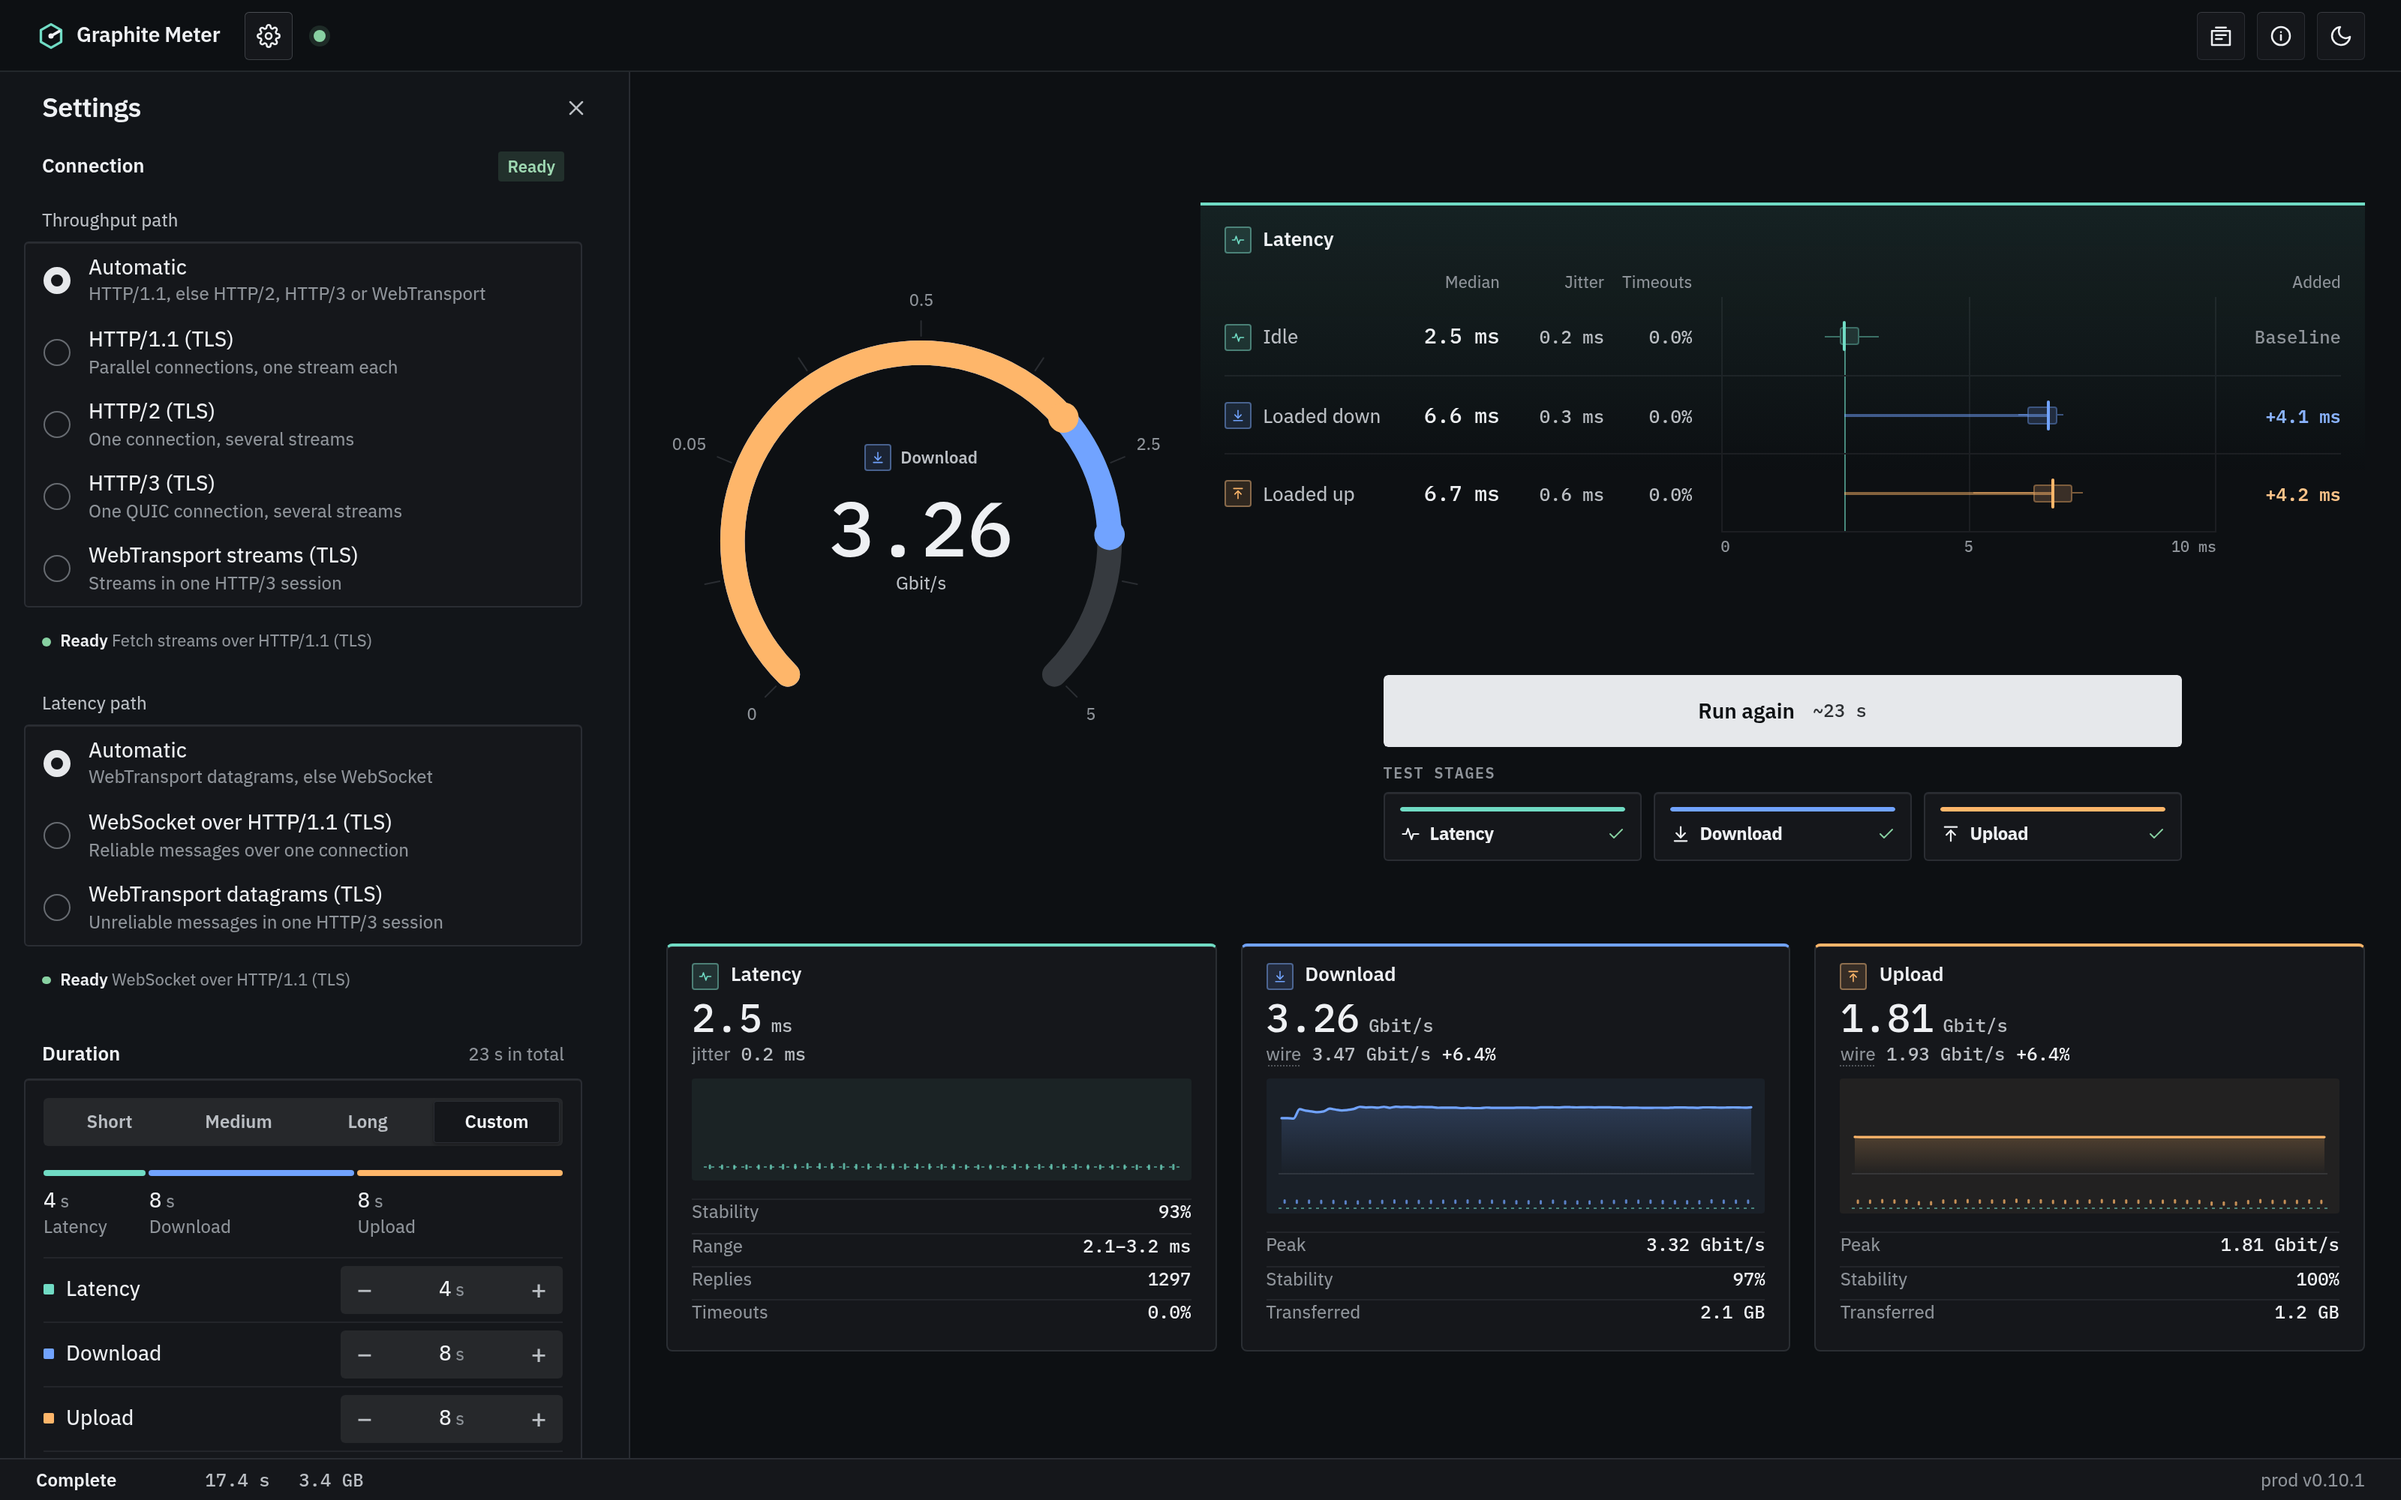
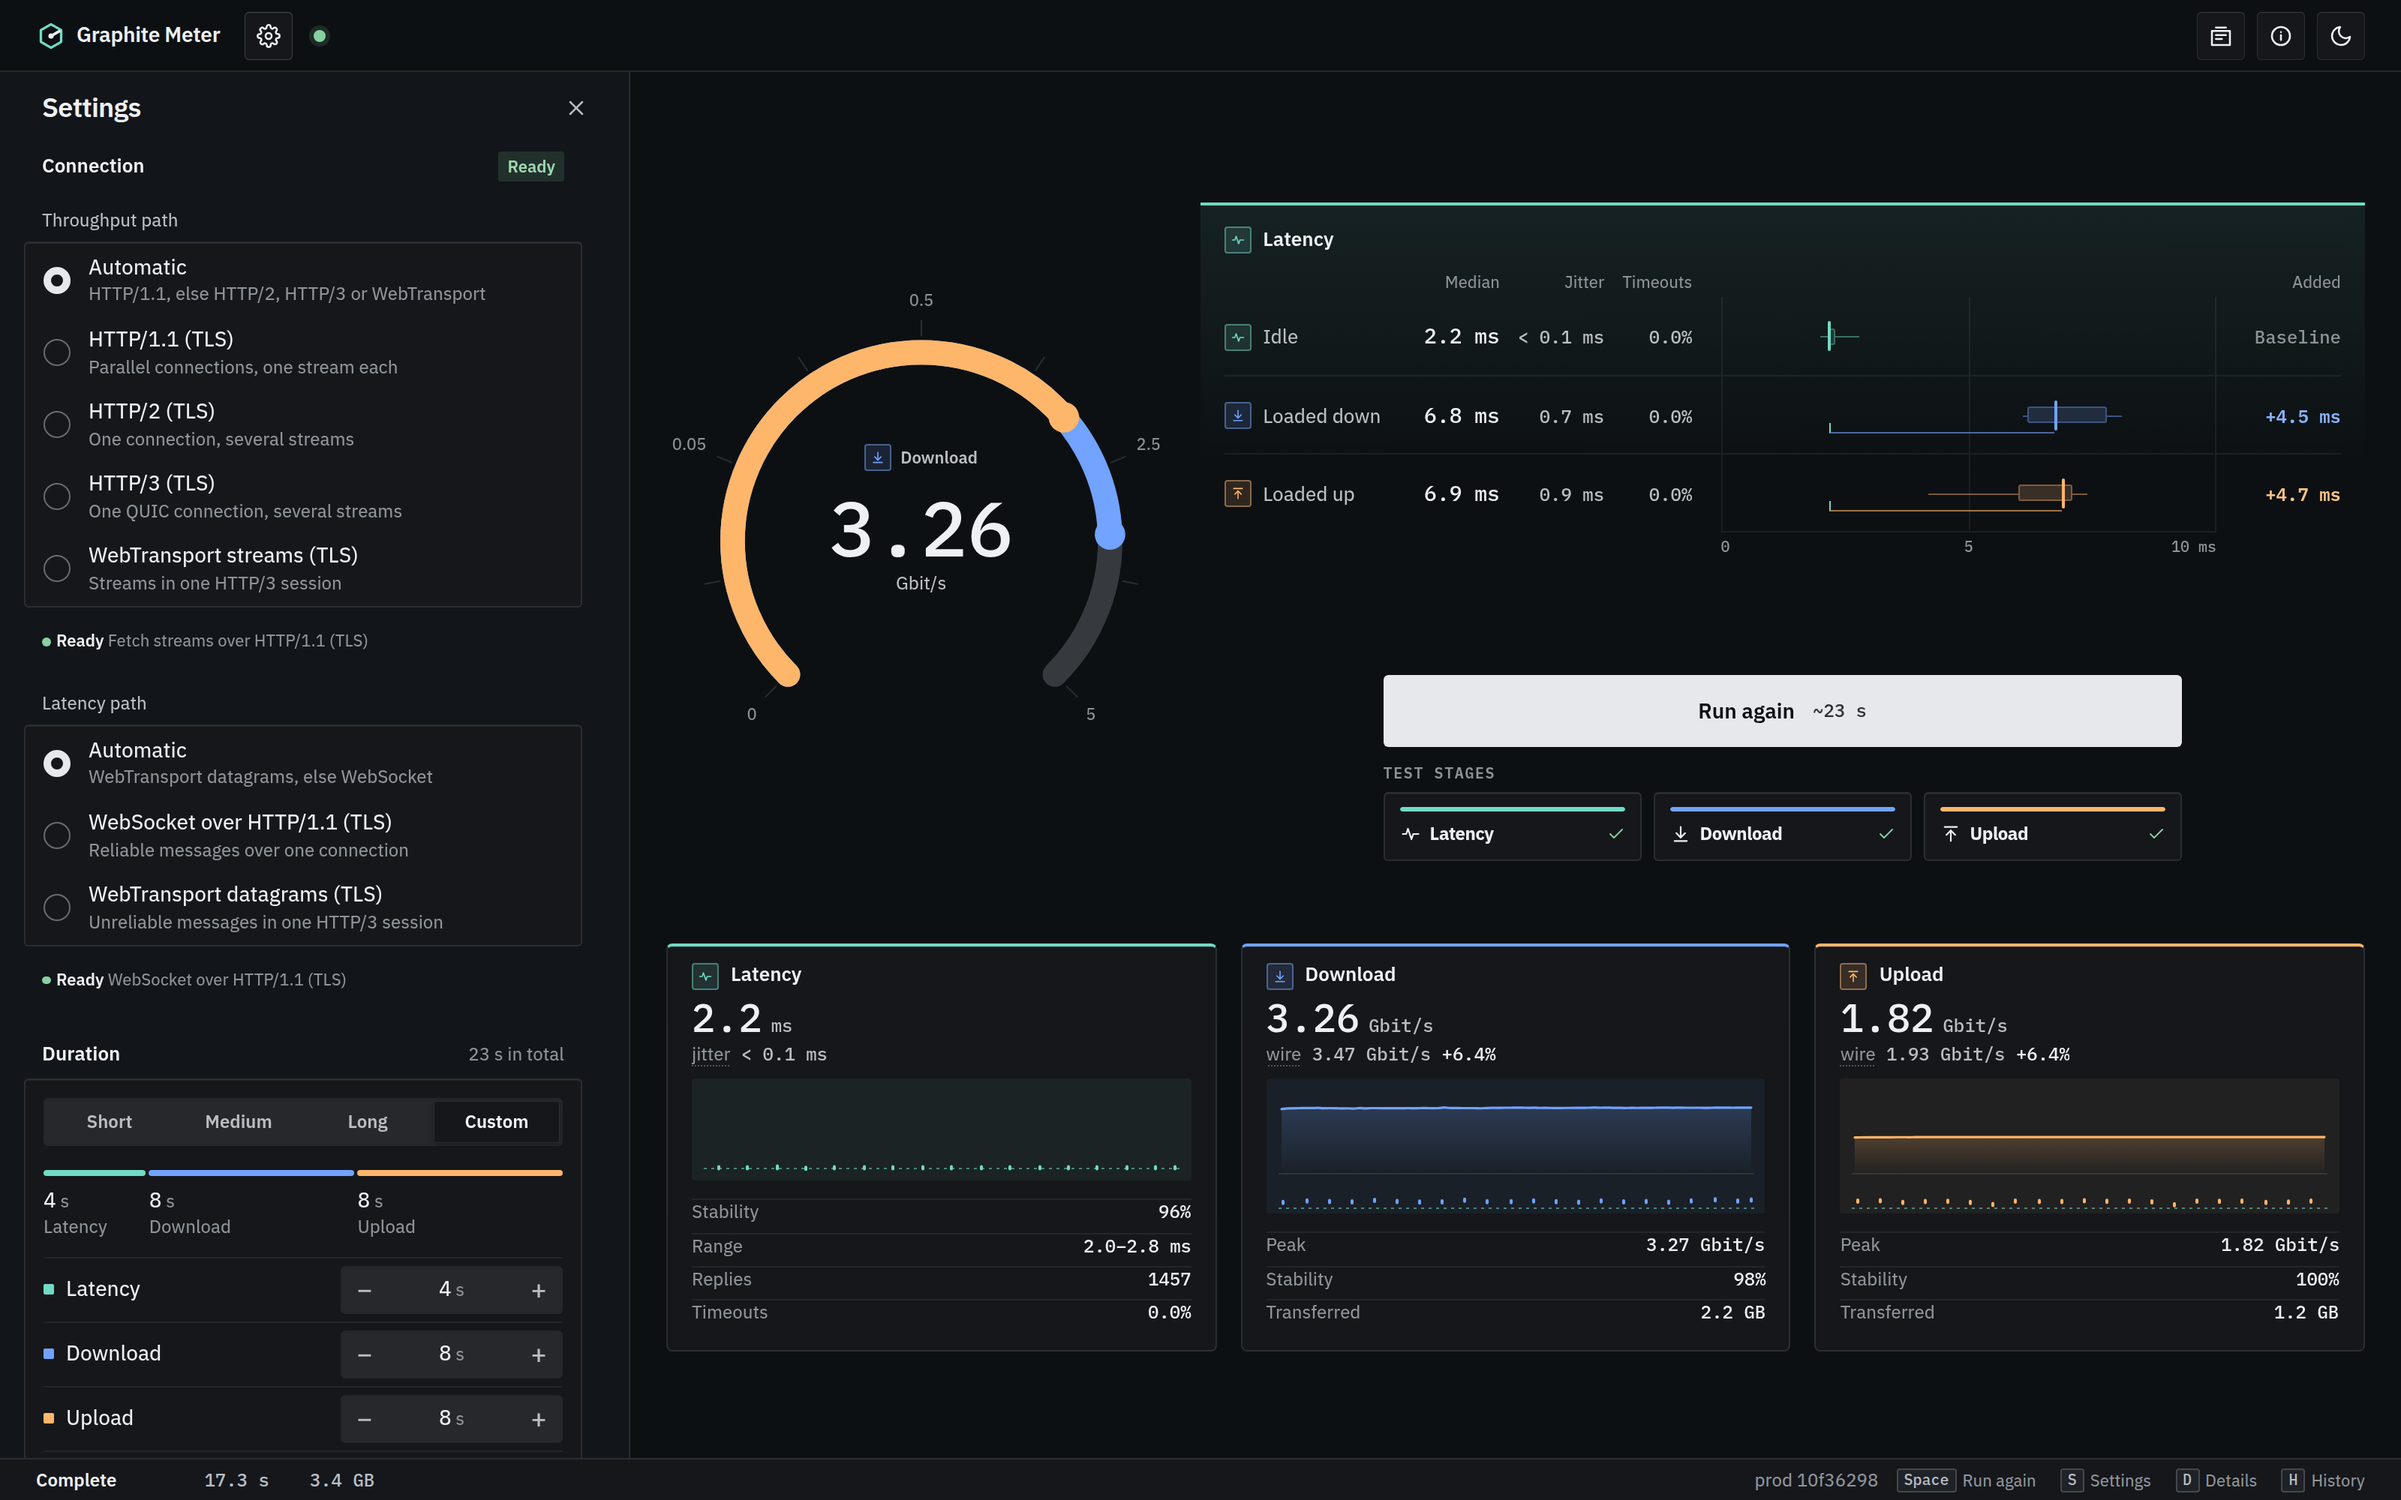
Retake the gallery with the browser client
Every browser capture in the README and the gallery showed the removed
client. A hosted runner retook all thirteen over the documented shaped
paths with the production build of 10f36298 and the pinned Chrome 154:
the completed views, Settings, Details, both docks, three servers, the
partial run, History, the phone and its saved result, and both sign-in
pages, each in the state its predecessor showed.

The README's hero now frames the Wi-Fi 7 laptop's upload stage: on the
runner the 10 GbE workstation path was limited by its CPU (about 7 down
and 4 up), not by the link. The captions quote what the new captures
show: the laptop at 3.26 down, 1.82 up and 2.2 ms idle, the phone at
1.58 down, 0.82 up and 3.3 ms. The workspace capture is a Wi-Fi 7 run,
as it always was, not a 10 GbE one. The terminal capture is unchanged.

diff --git a/docs/SCREENSHOTS.md b/docs/SCREENSHOTS.md
@@ -2,10 +2,10 @@
 
 [Project overview](../README.md) · [Quick deployment](DEPLOYMENT.md#fast-local-deployment) · [What the numbers mean](MEASUREMENTS.md)
 
-Every capture is a real run of version 0.10.1. The servers are local, each behind a link shaper that models one
-client's path into a 10 GbE home network: a laptop on Wi-Fi 7 for the completed views, a workstation wired at 10 GbE
-in the README's hero, and a phone on Wi-Fi 6E. The figures are what the meter measured over those paths, not a
-benchmark of a network.
+Every browser capture is a real run of a production build after version 0.11.1. The servers are local, each behind
+a link shaper that models one client's path into a 10 GbE home network: a laptop on Wi-Fi 7 for the desktop views and
+the README's hero, and a phone on Wi-Fi 6E. The figures are what the meter measured over those paths, not a benchmark
+of a network.
 
 ## The completed test
 
@@ -13,7 +13,7 @@ The dial carries the run's headline and every stage's result on one ring; the la
 latency side by side with what each load added; one card per stage, under its key, keeps the stage's graph with
 the latency its load caused underneath.
 
-<img src="assets/desktop.png" alt="Completed test from a laptop on Wi-Fi 7: 3.26 Gbit/s down, 1.81 Gbit/s up, 2.5 ms idle latency, the latency lanes and one card per stage" width="1080">
+<img src="assets/desktop.png" alt="Completed test from a laptop on Wi-Fi 7: 3.26 Gbit/s down, 1.82 Gbit/s up, 2.2 ms idle latency, the latency lanes and one card per stage" width="1080">
 
 <img src="assets/light.png" alt="The same completed test in the light theme" width="1080">
 
@@ -54,7 +54,7 @@ the latency lanes under them; nothing overlaps whatever the stages, servers or s
 the dial in view while the rest scrolls beside it, and a sheet follows the finger and leaves on a flick.
 
 <p align="center">
-<img src="assets/mobile.png" alt="Phone view of a completed test over Wi-Fi 6E: 1.55 Gbit/s down, 0.82 Gbit/s up, 3.6 ms idle latency, the dial over the stages and their cards" width="320">
+<img src="assets/mobile.png" alt="Phone view of a completed test over Wi-Fi 6E: 1.58 Gbit/s down, 0.82 Gbit/s up, 3.3 ms idle latency, the dial over the stages and their cards" width="320">
 <img src="assets/mobile-history.png" alt="Phone view of a saved result" width="320">
 </p>
 
@@ -75,16 +75,16 @@ over its stage chips, and a card per stage.
 
 <img src="assets/tui.png" alt="Native terminal client after a complete latency, download and upload run" width="1080">
 
-Browser captures: production build of 0.10.1 over HTTPS, Chrome 154, 1600 × 1000 (workspace 1920 × 1080) at 2×
-density, and 430 × 839 at 3× (the screen of a 430 × 932 phone between its status bar and home indicator); stages
-latency 4 s, download and upload 8 s, bidirectional 6 s, a 1 s warmup; the dial's maximum automatic.
-Paths: the laptop's carries 3.4 Gbit/s down and 1.9 Gbit/s up with 1 ms of one-way delay; the workstation's
-9.4 Gbit/s each way with no added delay, of which the capture host's CPU reached about 9; the phone's 1.65 Gbit/s
+Browser captures: production build of revision 10f36298, which the status bars name, over HTTPS, headless Chrome 154
+on a GitHub-hosted Ubuntu 24.04 runner, 1600 × 1000 (workspace 1920 × 1080) at 2× density, and 430 × 839 at 3× (the
+screen of a 430 × 932 phone between its status bar and home indicator); stages latency 4 s, download and upload 8 s,
+bidirectional 6 s, a 1 s warmup; the dial's maximum automatic.
+Paths: the laptop's carries 3.4 Gbit/s down and 1.9 Gbit/s up with 1 ms of one-way delay; the phone's 1.65 Gbit/s
 down and 0.86 Gbit/s up with 1.5 ms. Each queues up to 4 ms of data, so latency under load comes from real
 queueing. The three servers of the multi-server run each have their own path (1.3, 1.1 and 1.0 Gbit/s down with 1,
 1.5 and 2 ms), together about the laptop's, and the partial run stops the Mini PC's server during download. The
-terminal capture is a source build of the Go TUI with its default stages at 120 × 40 in VTE at 2×, over TLS on
-loopback, which runs far faster than any of those paths. Each capture is shown as a plain screen; the README's hero
-sets two in a laptop and a phone outline. The sign-in pages come from a local server with password sign-in, at the
-phone's size.
+terminal capture is a source build of the Go TUI from 0.11.0's development with its default stages at 120 × 40 in
+VTE at 2×, over TLS on loopback, which runs far faster than any of those paths. Each capture is shown as a plain screen;
+the README's hero sets the laptop's upload stage and the phone's result in a laptop and a phone outline. The sign-in
+pages come from a local server with password sign-in, at the phone's size.
 To measure your own network, follow [deployment and configuration](DEPLOYMENT.md).

diff --git a/README.md b/README.md
@@ -11,7 +11,7 @@ One Go server, a responsive web interface, and a native terminal client.
 
 [Quick start](#quick-start) · [Measurements](#what-you-can-measure) · [Browser](#browser-client) · [Terminal](#native-terminal-client) · [Documentation](#documentation)
 
-<img src="docs/assets/hero.png" alt="A laptop screen with a wired 10 GbE test mid-run, uploading at 8.97 Gbit/s with 0.2 ms idle latency, and a phone beside it with its finished Wi-Fi 6E result" width="1080">
+<img src="docs/assets/hero.png" alt="A laptop screen with a Wi-Fi 7 test mid-run, uploading at 1.81 Gbit/s with 2.2 ms idle latency, and a phone beside it with its finished Wi-Fi 6E result" width="1080">
 
 <sub>Real runs over shaped home-network paths · <a href="docs/SCREENSHOTS.md">screenshot gallery</a></sub>
 
@@ -78,7 +78,7 @@ result replays on the dial when the run ends.
 - **Local history:** optionally save up to 2,000 results on your device, grouped by day. Inspect past runs
   while the live test continues, then return to it from the toolbar. History is not a server-side archive.
 
-<img src="docs/assets/workspace.png" alt="Settings and Details docked on both sides of a completed 10 GbE test on a wide desktop" width="1080">
+<img src="docs/assets/workspace.png" alt="Settings and Details docked on both sides of a completed Wi-Fi 7 test on a wide desktop" width="1080">
 
 <p align="center"><sub>Resizable desktop panels · more in the <a href="docs/SCREENSHOTS.md">gallery</a></sub></p>
 
